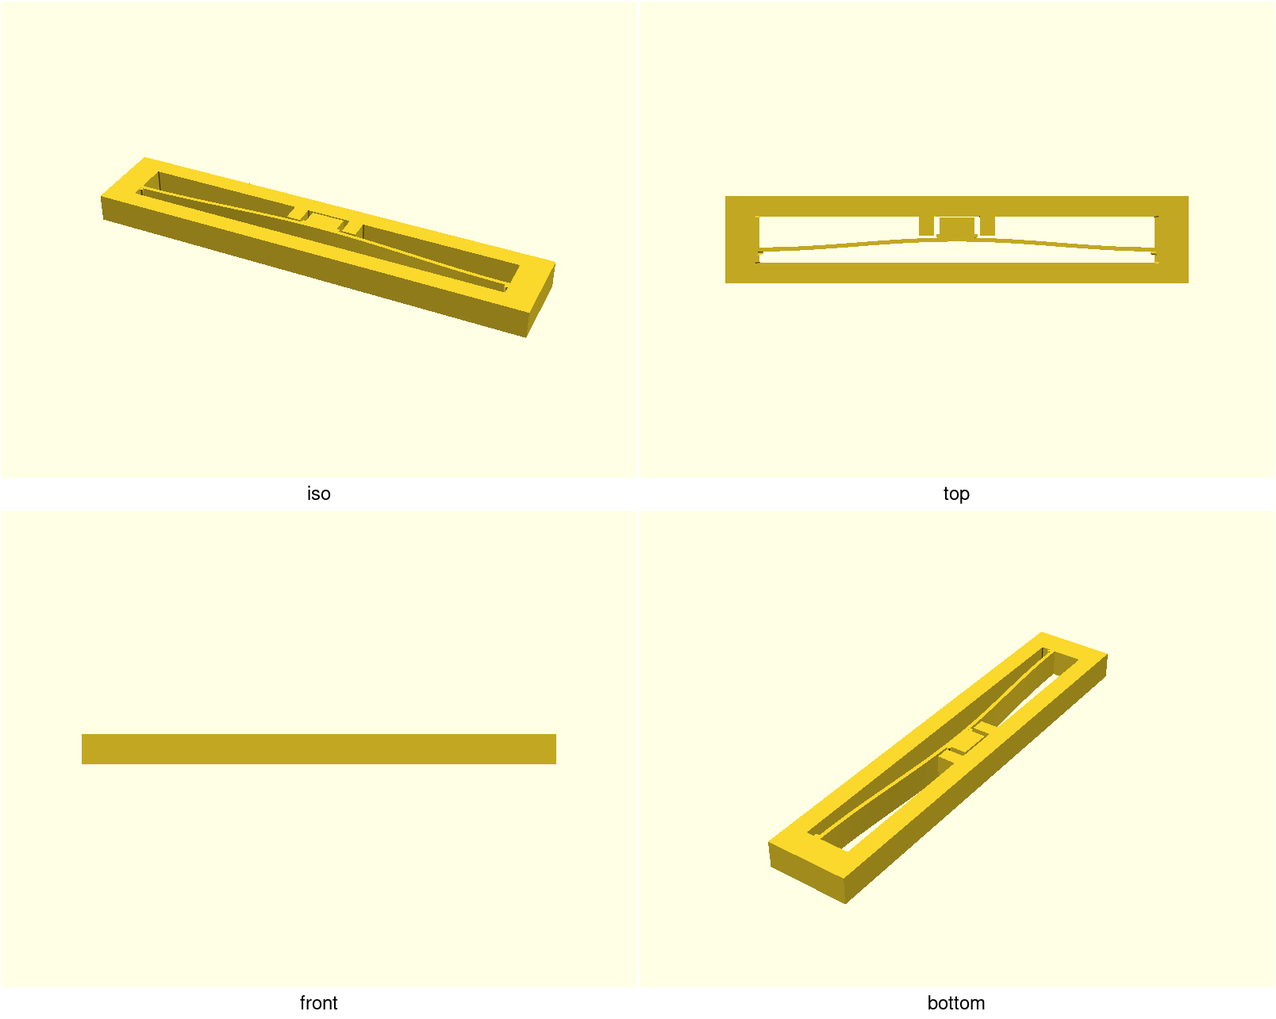
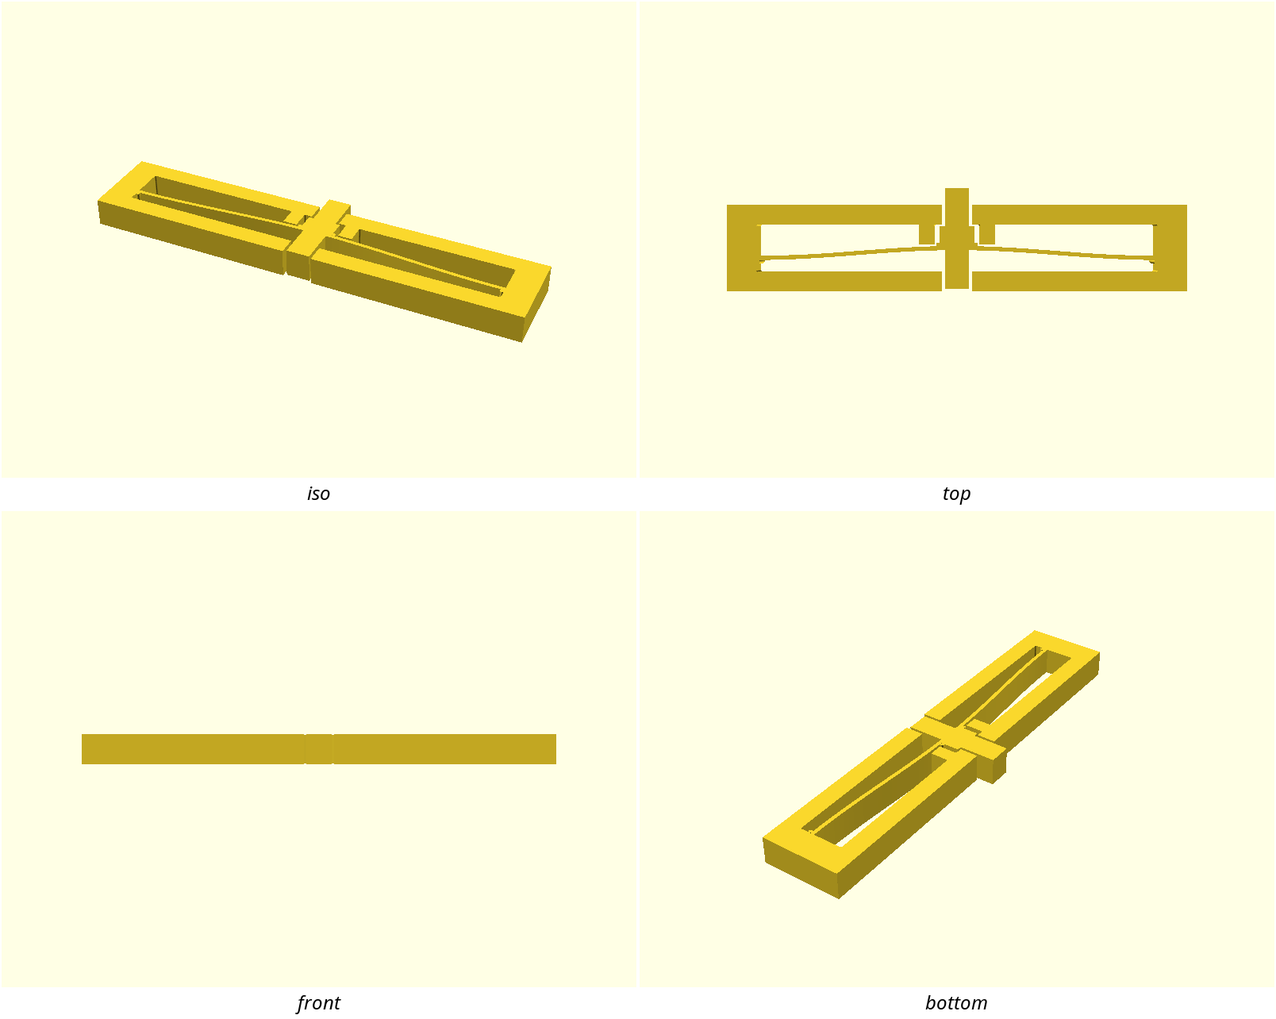
bistable-toggle: give the toggle a real push — proud stems through cage windows
Resolves Drik's rounds 2-4 block (PR #406): the hard-stop cage boxed the
nub in-plane on all four sides, so the README's promised push met the ~53x
stiffer out-of-plane axis and the part read as welded — and every coupon
cell shipped the same dead button.

The fix lands in the modules (Jane's call-site note at coupon_strip), so
all four coupon cells inherit it:

- nub_2d grows a mirrored pair of push stems (5 mm wide, 3.5 mm proud)
  riding the arch centre; whichever state the toggle is in, exactly one
  stem stands proud of the cage — one motion of one finger, in both states.
  Proud height must exceed the snap-through travel h (asserted per cell) or
  the finger bottoms on the cage before the arch crosses flat.
- frame_2d windows the lid and base bar over the push column; the
  over-travel stops move OUTSIDE it: +Y is now the nub's shoulders
  catching the lid-window jambs at the same 0.4 mm stop_gap (mesh-probed
  0.400), -Y the arch meeting the base-bar jambs (0.4 + the ~0.03 mm
  curvature drop across the half-window, stated rather than compensated).
  stem_clear (0.6) > stop_gap so the +-X rails always bite first.
- nub_sweep_2d grows the stem column so the fitcheck models the solid that
  actually moves; fitcheck renders empty, fitcheck_neg bites (168 facets),
  now covering the new window jambs too.
- coupon labels right-align clear of the base window (a centred label
  landed inside the cut), keeping the 0.8 mm glyph-to-window wall.
[…]

diff --git a/designs/bistable-toggle/NOTES.md b/designs/bistable-toggle/NOTES.md
@@ -60,12 +60,53 @@ primary-DOF motion: a sideways shove or an over-travel yank takes the beam past
 strain it was never solved for. So the nub travels in a rigid cage, all stops
 pure profile (print flat, no bridges):
 
-- **Lid (+Y)** — the frame's top bar limits upward over-travel.
-- **Base bar (−Y)** — limits the snapped-down state's follow-through.
+- **Lid (+Y)** — the frame's top bar limits upward over-travel. Since the
+  PR #406 push fix the lid is windowed over the stem, so the +Y stop face is
+  the nub's shoulders (the 7 mm body outboard of the 5 mm stem) catching the
+  window **jambs** — same `stop_gap`, stop moved outside the push column.
+- **Base bar (−Y)** — limits the snapped-down state's follow-through. Also
+  windowed for the mirror stem; the arch underside meets the **jambs** beside
+  the window, first contact ≈ `stop_gap` + the arch's curvature drop across
+  the half-window (≈ 0.03 mm — stated, not compensated: a 0.03 mm jamb ledge
+  is sub-layer noise no printer would reproduce).
 - **±X rails** — hang from the lid (they stop `stop_gap` above the arch's
   maximum reach) so a sideways shove cannot walk the nub off its line.
 - **Z** left to geometry: out-of-plane is `(w/t)² ≈ 56×` stiffer than the
   flexure axis.
+
+### Push access (the PR #406 fix — the block this design earned)
+
+Rounds 2–4 of review blocked the design because the cage boxed the nub
+in-plane on all four sides: the only exposed faces were the two broad
+extrusion faces, a straight-down press loads the ~53× stiffer out-of-plane
+axis, and the part read as welded — a dead button, and the coupon shipped
+four more of it. The fix, **in the modules so every coupon cell inherits
+it** (Jane's round-4 call-site note): a mirrored pair of push stems on the
+arch centre, each through a `stem_clear`-flanked window in the lid / base
+bar. Whichever state the toggle is in, exactly one stem stands proud of the
+cage face; pressing it is the next switch — one motion of one finger, in
+both states (the acceptance line the round-4 triage adopted).
+
+Three derived rules the stems obey:
+
+- **Proud height > rise `h`** (asserted per cell): snap-through happens at
+  centre travel `h`; a stem proud by less bottoms the fingertip on the cage
+  face while the arch is still on the near side of flat — a dead button by
+  under a millimetre. `stem[1] = 3.5` clears the tallest coupon cell
+  (h = 2.46) with margin.
+- **No root gussets on the stems**: their roots sit inside the nub-rigidized
+  centre span (|x−l/2| ≤ nub[0]/2) where cyclic strain is ~zero, and gusset
+  bumps would demand windows too wide to keep the nub→jamb +Y stop (bump
+  crests reach `t` past the stem face — the same protrusion arithmetic that
+  moved the rails at iteration 3).
+- **`stem_clear` (0.6) > `stop_gap` (0.4)**: the ±X rails must always bite
+  before a stem can touch its window jamb, so the stops keep their designed
+  order and the stems never become accidental X stops.
+
+The end posts keep their square outer corners deliberately: they are the
+clamp/grip and mounting datum surfaces, and the brief's fillet ask covers the
+mechanism's concave junctions (the close-op) and the flexure roots, not the
+frame's outside.
 
 `stop_gap = 0.4 mm`: past a stable state or off-axis at rest, the moving solid
 meets a stop 0.4 mm later. Verified in the export: nub→lid 0.400,
@@ -85,12 +126,17 @@ rail placed off the bare face sits exactly on the gusset crests and fuses.
 
 `fitcheck` intersects the cage with **`travel_sweep_2d`** — the arch band
 mirrored through the snap (state 2 = state 1 reflected about the chord) plus
-the nub *with its gusset bumps* — and must render **empty**: the stops bite
-only on over-travel/off-axis load, never during a normal switch. This is the
+the nub *with its gusset bumps* plus, since the push fix, the **stem column**
+(both stems' full reach through the lid and base windows, bare `stem[0]`
+width because the stems carry no bumps) — and must render **empty**: the
+stops bite only on over-travel/off-axis load, never during a normal switch. This is the
 check that catches a stop placed where the arch sweeps — a mechanism that
 prints fused solid, which `bodies: 1` cannot see because the production part is
 *supposed* to be one body (monolithic flexure). `fitcheck_neg` grows the sweep
-past `stop_gap` and must interfere, proving the check can fail.
+past `stop_gap` and must interfere, proving the check can fail — since the
+push fix its grown stem column (2.5 + 0.7 half-width vs the 3.1 window jamb)
+also bites the new window jambs, so the negative control covers the windowed
+cage too, not just the pre-fix stop faces.
 
 `bodies: 1` on the production part is correct, not a red flag: the arch is
 rigidly clamped to the posts by design (fixed–fixed), so the *flex* proof is
@@ -105,10 +151,11 @@ ratio (h = mid_rise); 2 and 1.5 are deliberately monostable — the negative
 controls.
 
 1. Print the coupon flat, no supports, in your production material.
-2. Feel left to right: 3 and 2.5 should snap and hold both states; 2 and 1.5
-   should only spring back. The snap dying between 2.5 and 2 is the
-   calibration — it proves your printer/material landed where the solve
-   assumed.
+2. Press each cell's proud stem (the cells carry the same stems and windows
+   as the production part — the strip teaches the same motion), left to
+   right: 3 and 2.5 should snap and hold both states; 2 and 1.5 should only
+   spring back. The snap dying between 2.5 and 2 is the calibration — it
+   proves your printer/material landed where the solve assumed.
 3. If "2.5" only springs back **on your printer**: raise `mid_rise` (or accept
    a monostable button — also a useful part). If the snap is too fierce: lower
    it. Re-derive nothing else — `span`/`fs_pred` follow.
@@ -126,6 +173,7 @@ controls.
 | 4 | coupon 92/100: thin-wall 0.07 mm — period glyph dips ~0.28 below the baseline | label baseline offset 0.35 → 1.1 above the bar edge |
 | 5 | coupon thin-wall 0.04 mm — period kerns tight against the next digit | `spacing = 1.5` on the label `text()` |
 | 6 | green — production 100/100, coupon 100/100 (4 shells = 4 cells, intentional), both fitchecks ok | — |
+| 7 | review rounds 2–4 (PR #406): nub caged on all four sides — no reachable push face, a dead button, inherited by every coupon cell | mirrored push stems through lid/base windows, in the modules (`nub_2d`/`frame_2d`); stops relocated to the jambs; sweep grown to the stem column; coupon label right-aligned clear of the base window; green — 100/100 both parts, fitcheck empty, fitcheck_neg 168 facets |
 
 Also caught: coupon cells "3.0"/"2.0" cut loose the 0-glyph's enclosed counter
 as two 17 mm³ floating chips (6 shells). Labels now carry no "0". Scores
@@ -134,8 +182,13 @@ as two 17 mm³ floating chips (6 shells). Labels now carry no "0". Scores
 ## Print
 
 Flat (profile in XY, snap in-plane → flex in the layer plane). No supports, no
-bridges — the cage too is pure profile. Live flexure → PETG/PP/TPU/nylon,
-**not PLA**. Overall 94 × 17.7 × 6 mm; ~6 g, ~31 min at 0.2 mm layers.
+bridges — the cage too is pure profile; the stems and their windows are pure
+profile as well, so the push fix changed nothing print-side. Live flexure →
+PETG/PP/nylon, **not PLA** (creeps under the second state's held residual
+stress) and **not TPU** — E ≈ 100 MPa collapses the solve: the same 3 N would
+need the span ~2.7× shorter, and at this geometry a TPU arch is a ~0.15 N
+mush, not a switch. Overall 94 × 21.2 × 6 mm; ~6.3 g, ~32 min at 0.2 mm
+layers.
 
 **First-layer squish (the one thing no gate models):** the clearances live in
 the extruded profile, so they touch the bed at Z=0 — elephant foot (0.1–0.2 mm
@@ -143,6 +196,34 @@ per side) can pinch the 0.4 mm nub→lid slot to a hairline web on layer 1 that
 the first snap shears. Not a defect, but say it in the README (compensation on,
 expect the web) or a first-printer reads "stiff first snap" as a failed solve.
 Jane review pass 2026-08-24 — folded into Print settings above.
+
+## Review round 5 (2026-08-29) — the push fix lands
+
+Rounds 2–4 blocked on mechanism honesty: the page promised a push the caged
+geometry refused (Drik's block, corroborated by Jane's image pass), and every
+coupon cell shipped the same dead button. This round lands the one push the
+round-4 triage scoped — **geometry + the accumulated text pass, no third
+thing**:
+
+- **Geometry**: mirrored push stems through lid/base-bar windows, in
+  `nub_2d`/`frame_2d`/`nub_sweep_2d` so all four coupon cells inherit them
+  (see "Push access" above for the three derived rules). Stops relocated to
+  the jambs, still at `stop_gap`; fitcheck sweep grown to the stem column;
+  `fitcheck_neg` re-proven (168 facets — now biting the window jambs too).
+  Coupon labels right-aligned clear of the new base window (a centred label
+  landed inside the cut). Gate green: 100/100 both parts, slices ok.
+- **Text**: the round-1 ten-clause pass plus the round-2/3/4 riders — press
+  direction rewritten against the fixed geometry, "valve actuator" cut,
+  fixing/which-way-up added, coupon force/economics/bed-length/brim clauses,
+  materials setup traps, elephant-foot as a number (0.2 mm), held-stress
+  not-PLA reason, TPU exclusion here in NOTES, corner-intent line.
+- **Chartered**: `PM.md` created (the coach's T3, four rounds overdue) with
+  the acceptance rows the triage seeded — *one motion of one finger, in both
+  stable states* and coupon fidelity to the production motion.
+
+Queue rows deliberately not taken (the PM's tiers): seam reason swap (B2),
+bold coupon labels (B3), the filmed die-out clip (B4), FIELD-TEST cycle count
+(B1, post-merge, needs a real print).
 
 ## Status
 

diff --git a/designs/bistable-toggle/README.md b/designs/bistable-toggle/README.md
@@ -1,12 +1,17 @@
 # bistable-toggle
 
-A monolithic **bistable switch**: a pre-buckled arch with two stable states
-(bowed up / bowed down) separated by a negative-stiffness region. Push the centre
-nub through flat and it snaps to the other state and *stays* there — power is only
-needed to switch, never to hold. Dimensioned from feel targets, not by eye: a
-**3 N fingertip snap** with **4 mm of travel** (PETG), solved back to geometry
-from published fixed–fixed-arch constants. A worked example of the bistable /
-constant-force family (`docs/advanced-techniques.md`, Domain 1).
+A monolithic **bistable push switch**: a pre-buckled arch with two stable states
+(bowed up / bowed down) separated by a negative-stiffness region. Press the
+proud push stem and the arch snaps through flat to the other state and *stays*
+there — power is only needed to switch, never to hold. The stems are a mirrored
+pair riding the arch centre through windows in the stop cage: whichever state
+the toggle is in, exactly one stem stands proud of the cage, and pressing it is
+the next switch — one motion of one finger, in both states. Dimensioned from
+feel targets, not by eye: a **3 N fingertip snap** with **4 mm of travel** —
+*predictions* solved back from published fixed–fixed-arch constants against a
+textbook PETG modulus, for the coupon to verify on your printer, not
+guarantees. A worked example of the bistable / constant-force family
+(`docs/advanced-techniques.md`, Domain 1).
 
 ![Studio product shot of the red 3D-printed bistable-toggle](previews/hero.png)
 
@@ -14,19 +19,44 @@ constant-force family (`docs/advanced-techniques.md`, Domain 1).
 
 ## What you get
 
-- `bistable-toggle` — one flat part, ≈ 94 × 18 × 6 mm. The arch snaps inside a
+- `bistable-toggle` — one flat part, ≈ 94 × 21 × 6 mm. The arch snaps inside a
   rigid stop cage (lid above, base bar below, rails flanking the nub) that
   absorbs over-travel and sideways shoves, so the flexure only ever feels the
-  motion it was solved for. Use it as a latch, a valve actuator, or a tactile
-  toggle that holds state with zero power.
+  motion it was solved for. The lid and base bar are windowed over the push
+  stems, and the over-travel stops sit **outside the push column**: the +Y stop
+  is the nub's shoulders catching the lid-window jambs at the same 0.4 mm gap,
+  and the −Y stop is the arch meeting the base-bar jambs beside its window
+  (first contact ≈ 0.43 mm at the window edge — the 0.4 design gap plus the
+  arch's curvature drop across the half-window). Use it as a latch, a damper
+  hold, or a tactile toggle that holds state with zero power.
 - `bistable-toggle-coupon` — **print this first**: a 4-cell strip sweeping the
   bistability threshold on *your* printer (below).
+
+**How to press it:** the push is in the part's plane. Lying flat on the table
+the stems point along the table, not at the ceiling — press the proud stem
+straight in, like a doorbell set into the frame's edge, until the snap carries
+it through; then the opposite stem stands proud for the return press. (Pressing
+the part's broad top face does nothing: that is the ~50× stiffer out-of-plane
+axis, and no push face lives there.)
+
+**Fixing & which way up:** there are no fastener holes by design — the frame is
+the ground, so fix the part by its base bar and end posts (superglue or VHB
+tape on the flat faces, or a printed pocket gripping the 6 mm frame), leaving
+both stem windows and the proud stem travel clear. Either face may be "up": the
+mechanism is symmetric through its plane — mount it so the stem you'll press
+most often faces the operator.
 
 ![Coupon strip: four cells, bistability dying left to right](previews/coupon.png)
 
 ## Print settings
 
-- **Material:** PETG / PP / nylon (live flexure). **Not PLA.**
+- **Material:** PETG — the easy path, and the only one the solve's
+  `E = 2000 MPa` datum actually describes. PP and nylon flex just as well but
+  are traps on stock hardware: PP barely adheres to PEI (strap the plate with
+  packing tape), and un-dried nylon loses layer adhesion exactly where the beam
+  lives (dry box + enclosure). **Not PLA** — the second state holds a small
+  residual stress in a live flexure, and PLA creeps under sustained load: a PLA
+  toggle stops clicking within months and just sits there half-snapped.
 - **Layer height:** 0.2 mm
 - **Infill:** 100 % / high perimeters
 - **Supports:** none — everything, the stop cage included, is pure profile and
@@ -36,10 +66,14 @@ constant-force family (`docs/advanced-techniques.md`, Domain 1).
   bending stress runs across roads within a layer, not between them
 - **Plate:** textured PEI if you have it — PETG over-welds on smooth, and the
   moving clearances touch the bed (next line)
-- **First layer:** enable elephant-foot compensation. The 0.4 mm nub→lid slot
-  runs the full height *including layer 1*, where squish can pinch it to a
-  hairline web — expect to shear one thin web on the very first snap (every
-  coupon cell has the same slot, so the strip shows you the feel first)
+- **First layer:** set initial-layer horizontal expansion (elephant-foot
+  compensation) to **0.2 mm** — stock profiles ship it at 0.0, so "enabled"
+  isn't a state the machine has. Every moving clearance here is a layer-1
+  clearance: the 0.4 mm stop gaps at the nub, the rail faces and the 0.6 mm
+  stem↔window slots all run the full height *including layer 1*, where squish
+  can pinch the thinnest to a hairline web — expect to shear one thin web on
+  the very first snap (each coupon cell has the same slots, so the strip shows
+  you the feel first)
 - **Seam:** Back (cosmetic — nothing mates on a perimeter)
 
 The 0.82 mm arch beam prints as two clean perimeters at a 0.4 mm nozzle. If the
@@ -66,6 +100,8 @@ and the design refuses to build it. The full solve chain is in `NOTES.md`.
 | `span` | ≈ 82 mm | clamped span `l` (derived from `target_fs`) |
 | `width` | 6 mm | out-of-plane width = print height |
 | `stop_gap` | 0.4 mm | travel past a stable state before a hard stop bites |
+| `stem` | [5, 3.5] mm | push stem [width, proud height]; proud must exceed the rise `h` or the finger bottoms on the cage before snap-through (asserted) |
+| `stem_clear` | 0.6 mm | stem↔window clearance — kept above `stop_gap` so the ±X rails always bite before a stem touches its jamb |
 
 Bistability holds while `mid_rise/beam_t ≥ 2.3`. All parameters are at the top of
 `bistable-toggle.scad`; override with `-D 'target_fs=2.5'` and the derived
@@ -75,10 +111,25 @@ dimensions follow.
 
 `bistable-toggle-coupon.scad` prints four small cells labelled **3 / 2.5 / 2 /
 1.5** — their `mid_rise/beam_t` ratios at the production thickness. Left to
-right: bistable, bistable (the production ratio), monostable, monostable. Feel
-the snap die between 2.5 and 2 — that is your printer landing where the solve
-assumed. If 2.5 only springs back for you, raise `mid_rise`; if the production
-snap is too fierce, lower it. Steps in `NOTES.md` → "Print this first".
+right: bistable, bistable (the production ratio), monostable, monostable. Four
+cells because this is a family calibration with negative controls, not a copy
+of the part: two cells are deliberately dead so you know the test can fail.
+Press each cell's proud stem — every cell carries the same stems and windows as
+the production part, so the strip teaches the same motion. Feel the snap die
+between 2.5 and 2 — that is your printer landing where the solve assumed. If
+2.5 only springs back for you, raise `mid_rise`; if the production snap is too
+fierce, lower it. Steps in `NOTES.md` → "Print this first".
+
+Two expectations, so the strip reads right: the cells are short (`l = 35` vs
+the part's ~82) and switch force scales as `1/l³`, so they snap roughly **13×
+harder** than the part — feel for whether each state *holds*, not for the
+production force (~3 N), and hold the strip down while you press. And the strip
+is the bigger commitment on purpose: about **1 h 26 m / 15 g** of insurance
+against the toggle's **~32 m / 6.3 g** — the honest first evening is both on
+one plate. The strip is ~197 mm long: on beds under ~210 mm, print it rotated
+45° or two cells at a time — and if you add a brim for adhesion it will bridge
+the 3 mm gaps and print the strip as one piece (harmless to the calibration;
+just break the cells apart at the web before pressing).
 
 ![AI-styled scene: bistable-toggle staged in a real-world setting](previews/lifestyle-scene.png)
 

diff --git a/designs/bistable-toggle/PM.md b/designs/bistable-toggle/PM.md
@@ -1,0 +1,95 @@
+# bistable-toggle — product charter
+
+## The product, in one paragraph
+
+A monolithic bistable **push switch** — a pre-buckled fixed–fixed arch that
+snaps between two stable states and holds either with zero power — for the
+maker who wants a battery-free state-hold (a latch, a damper hold, a tactile
+toggle) and for the compliant-curious who print it to *feel* the snap. The one
+thing it must do well: **switch under a fingertip and hold**, at the briefed
+3 N / 4 mm feel, on a stock FDM printer with no supports.
+
+## Non-negotiables
+
+| # | Constraint | Number | Source | Reopens if |
+|---|---|---|---|---|
+| N1 | Switch force f_s (prediction, coupon-verified) | 3 N ± 0.2 | brief #389 | brief amended |
+| N2 | Centre travel u_tr | 4 mm ± 0.1 | brief #389 | brief amended |
+| N3 | Arch section floor w × t | ≥ 3 × 0.8 mm | brief #389 + repo two-perimeter floor; t ≥ 0.8 un-relaxable (the 0.82 fix bought clearance with material, never `--min-wall`) | never |
+| N4 | Fixed–fixed arch, 2 stable states, `mid_rise/beam_t ≥ 2.3` (asserted) | ≥ 2.3 | brief #389 / arch mechanics | never |
+| N5 | **The briefed interaction is deliverable by a hand**: the product's repeated action is *one motion of one finger, in both stable states* (PR #406 rounds 2–4 — the acceptance row no gate can check; a human verdict at review) | — | brief #389 "a push switch"; PM triage rounds 2–4 | brief amended via `accept-drag-switch-yes-no` |
+| N6 | **Coupon fidelity**: a fix to the actuation path lands in the shared modules, so the calibration ritual teaches the same motion as the production part | — | PM triage round 4 (Drik `[used-it]` + Jane `[saw-it]`) | never |
+| N7 | The opened cage still stops +Y over-travel — or the page says which duty moved where | stop_gap 0.4 | PM triage round 3 (Drik's rider) | never |
+
+Rationale note under N5 (round 3): every CI gate asks *can the mechanism
+move*, never *can a person make it move* — six green iterations shipped a
+switch that couldn't be switched. That is why this row exists and stays human.
+
+## Out of scope
+
+**Deferred** — mounting-feature variant (screw bosses); lengthened coupon
+cells matching production feel; see backlog.
+
+**Never** — PLA or TPU builds (creep / modulus collapse — NOTES records why);
+valve actuation as a pitch (never briefed; a monolithic bar carries no ports
+or sealing — cut in round 1); relaxing t below 0.8 via `--min-wall`.
+
+## v1 — definition of done
+
+- [x] Gate green: production + coupon 100/100, test-slices, fitchecks
+      (empty + biting negative control).
+- [x] Coupon sweeps the bistability threshold with negative controls.
+- [x] A finger can switch it: one motion of one finger, in both stable
+      states, on part *and* coupon cells (N5/N6 — reviewer-verified).
+- [x] Product page: honest actuation + prediction framing, geometry-true
+      hero + contact sheet, disclosed AI scene.
+- [ ] FIELD-TEST entry with a real cycle count (B1 — post-merge).
+
+## Product page & shots (art direction)
+
+**Page promise.** Press it and it clicks to the other state and *stays* —
+a battery-free state-hold you can print tonight, dimensioned from feel
+targets you can verify with the coupon.
+
+**Mechanism honesty.** The as-printed contact-sheet 4-view stays embedded
+beside the hero (it is what CI slices); the AI lifestyle scene stays labelled
+and captioned as geometry-approximate. The page may never claim an
+interaction the artifact refuses (rounds 2–4's lesson).
+
+**Shot list — tier 1.**
+
+| Shot | What it sells | View | Look (color / finish) | Pose |
+|---|---|---|---|---|
+| hero | the whole mechanism: arch, proud stem, cage | low 3/4 (30,25,1.0) | red `d1495b`, satin | as printed |
+| contact-sheet | as-printed truth, bed contact, overhangs | 2×2 iso/top/front/bottom-iso | — | as printed |
+| coupon | the four-cell calibration story, labels legible | frozen cameras.conf line | — | as printed |
+
+**Lifestyle scenes — tier 2.**
+
+| Shot | Seed | Scene |
+|---|---|---|
+| lifestyle-scene | hero | the toggle at work on a desk — disclosed AI impression |
+
+## Backlog, ranked by user value
+
+| # | Item | Why this rank | Cost |
+|---|---|---|---|
+| B1 | FIELD-TEST entry with cycle count (Drik's protocol: coupon + toggle on one plate, a week of flicking) | cycle life is the top open question no digital gate can answer | one real print, ~2 h / ~21 g |
+| B2 | Seam reason swap (scarf seam; "stops mate on overload" as the true reason) | queue-tier text, third round at Jane's own tier | one line |
+| B3 | Bold coupon labels (`Liberation Sans:style=Bold`) | legibility; re-kerns the iteration-5 fix so needs a gate re-run | .scad + gate run |
+| B4 | Jane's filmed coupon die-out clip for the page | best explainer of bistability; needs B1's print and the owner's yes to the asset class | a video shoot |
+
+## Open decisions
+
+| Question | Blocking? | Assumption if unanswered |
+|---|---|---|
+| Accept a real-print clip as a page asset class (B4)? | no | not until the owner says yes |
+
+## Decision log
+
+| Date | Decision | Reason |
+|---|---|---|
+| 2026-08-24 | Round-1 triage: 11 act-now text edits, "valve actuator" cut | never briefed; page honesty |
+| 2026-08-24 | Round 2: Drik's block upheld on the brief's "push switch" line; drag-only actuation is a different product | mechanism honesty (sweetheart-hamster class) |
+| 2026-08-29 | Rounds 3–4: block upheld on an unmoved head; coupon-inheritance rider added (fix must land in modules); contingency `accept-drag-switch-yes-no` named but not fired | head byte-identical to blocked commit |
+| 2026-08-29 | Push fix shipped: mirrored proud stems through lid/base windows, stops relocated to jambs at stop_gap, in the modules; accumulated text pass landed; this charter created (T3) | resolves N5/N6/N7 in one push, as round-4 triage scoped |
